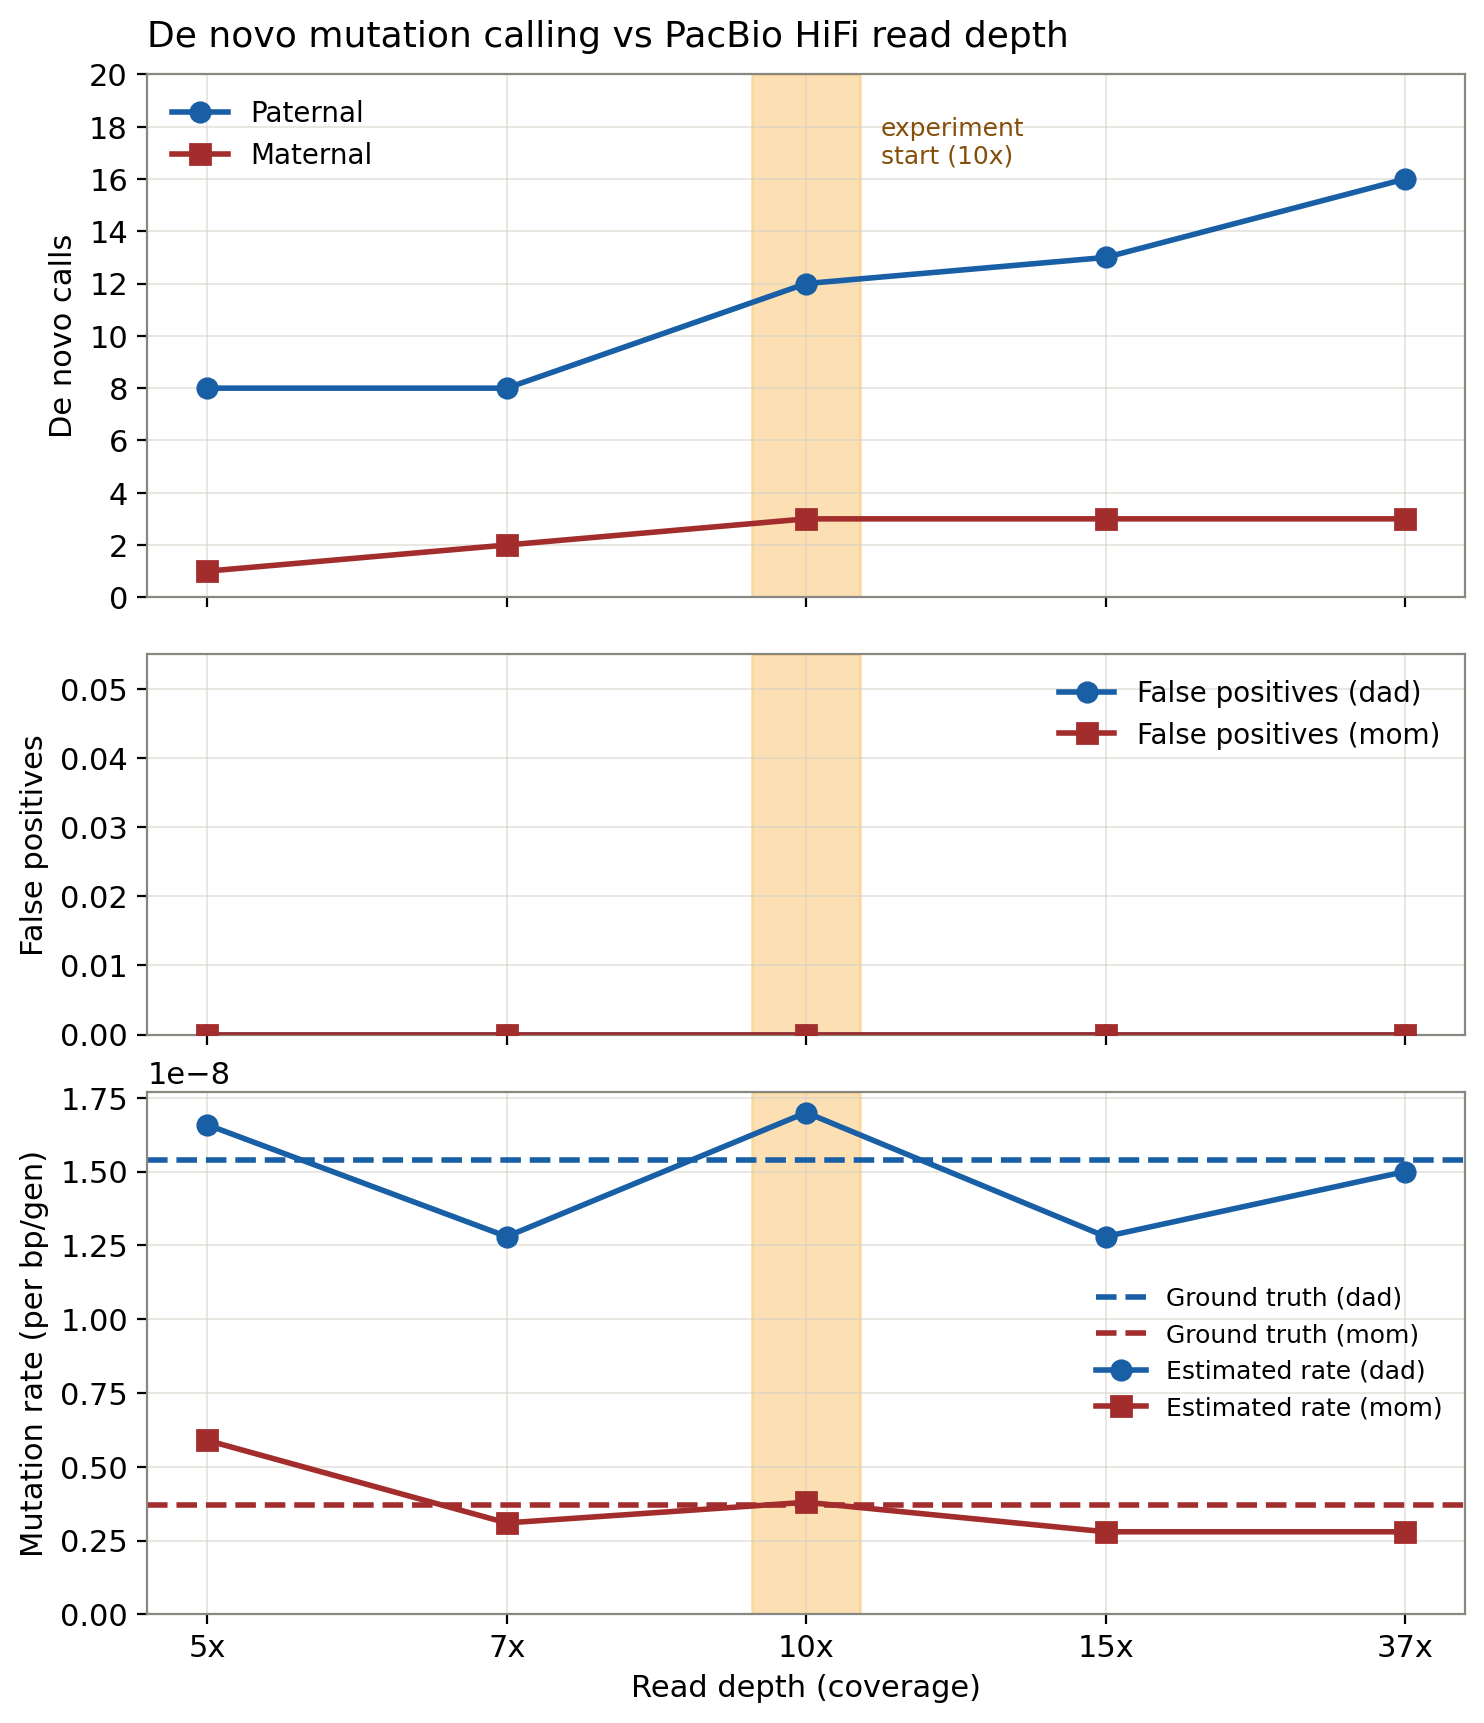
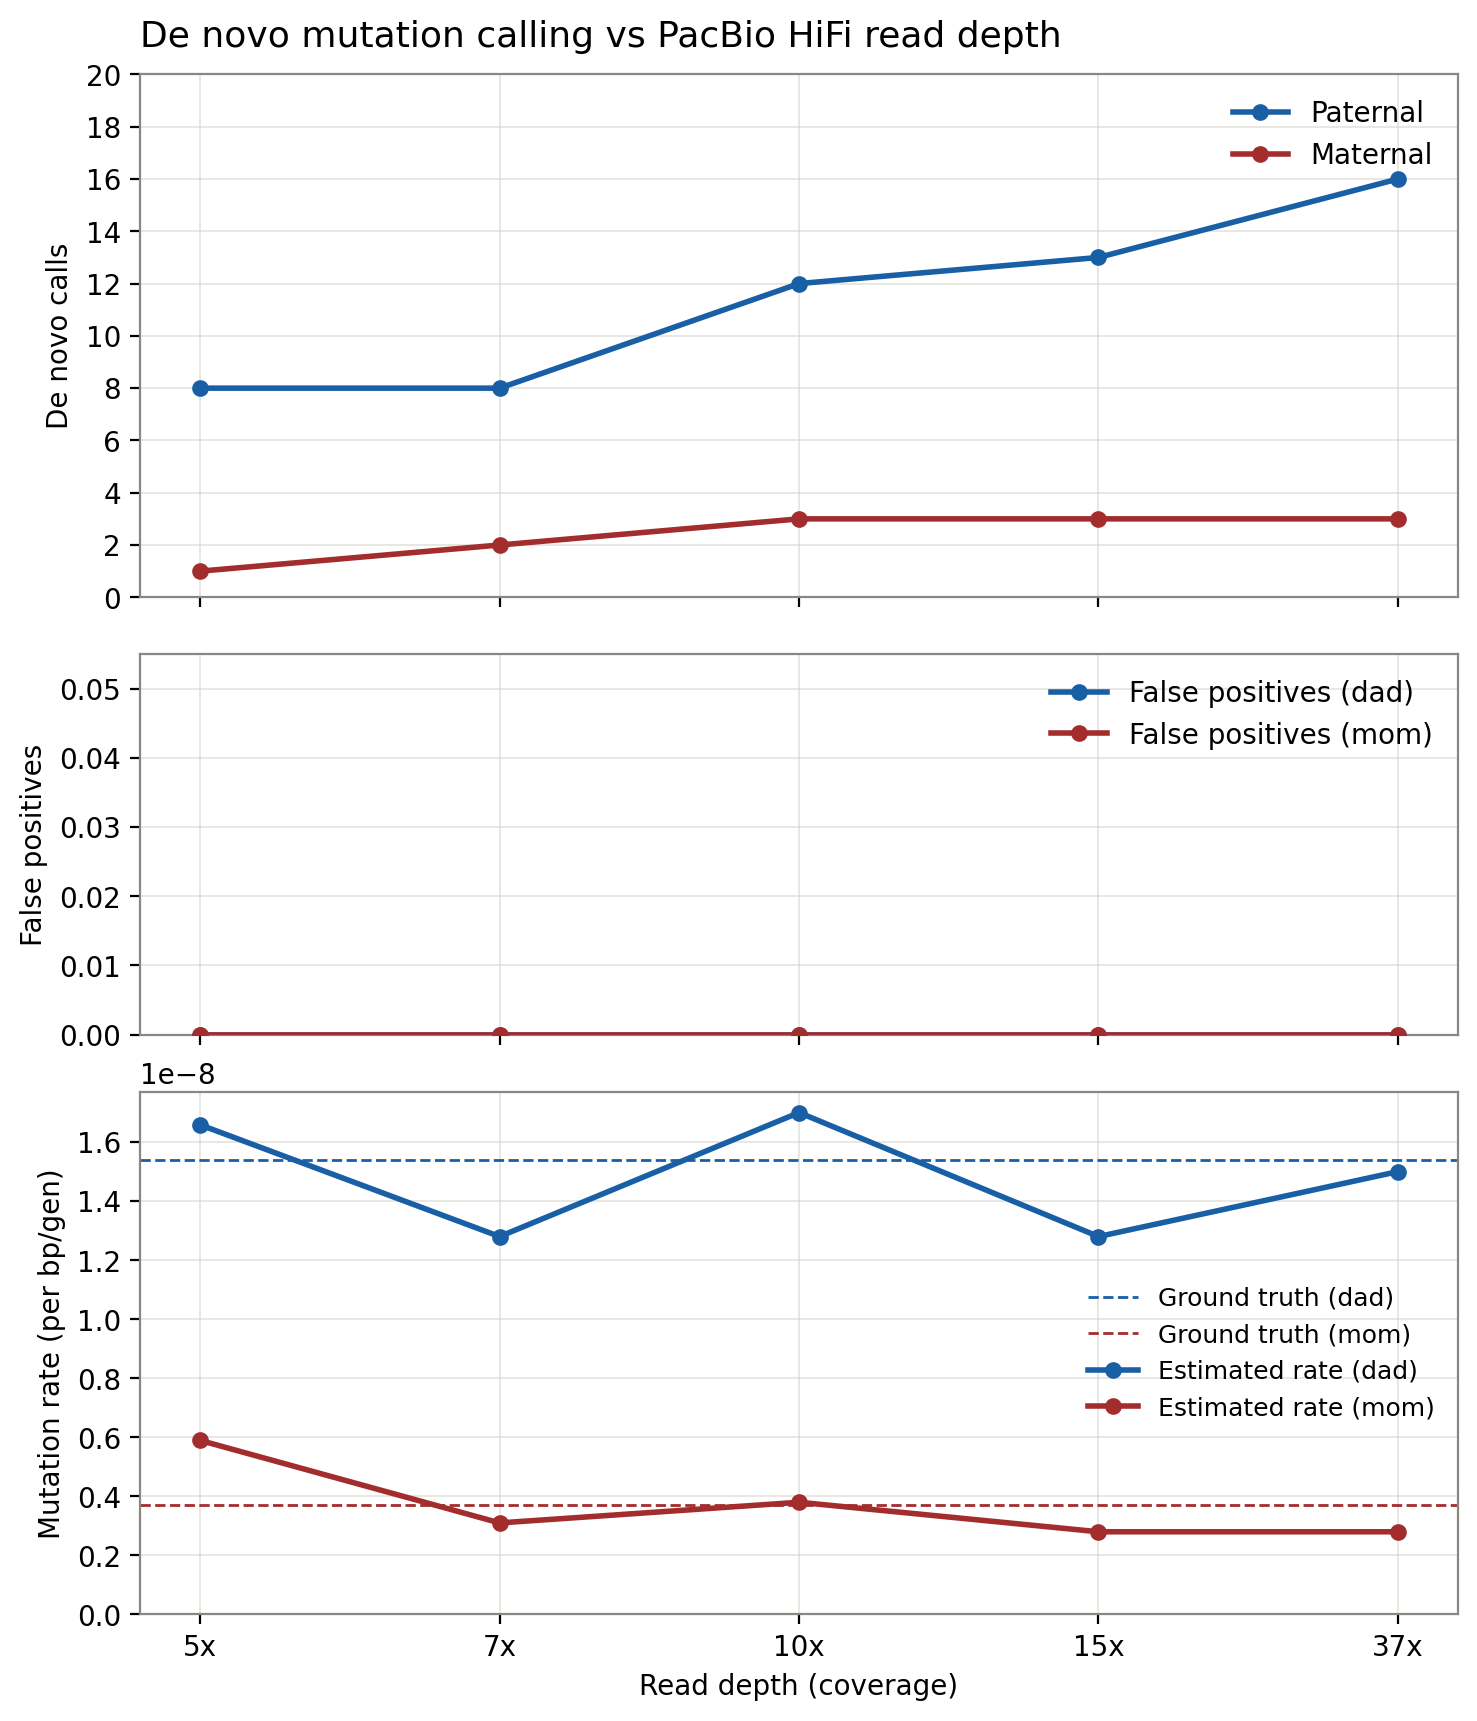
add some edits to the download file

diff --git a/src/dnm_vs_depth.py b/src/dnm_vs_depth.py
@@ -18,9 +18,9 @@ import numpy as np
 import matplotlib.pyplot as plt
 from scipy.stats import chi2
 
+
+
 # ===========================================================================
-# DATA  -- fill these in.  All arrays must line up with DEPTHS, same length.
-#          Use np.nan for any (depth, parent) you haven't run yet.
 # ===========================================================================
 
 DEPTHS = np.array([5, 7, 10, 15, 37])              # x-axis (coverage)
@@ -41,8 +41,7 @@ RATE_EST_MOM = np.array([5.894931e-09, 0.31e-8, 0.38e-8, 0.28e-8, 0.28e-08])
 
 
 # Callable / accessible genome size per depth, PER PARENT (drives Poisson band).
-# (From your pipeline's "Callable genome size" line for each parent run.)
-# >>> PLACEHOLDER NUMBERS -- replace with your real per-parent values <<<
+
 # CALLABLE_DAD = np.array([1.50e8, 2.00e8, 2.75e8, 3.20e8, 4.00e8])
 # CALLABLE_MOM = np.array([1.40e8, 1.90e8, 2.60e8, np.nan, np.nan])
 
@@ -92,8 +91,9 @@ def rate_band(calls, callable_genome, conf=0.95):
 # Plot
 # ===========================================================================
 plt.rcParams.update({
-    "font.family": "DejaVu Sans",
-    "font.size": 11,
+    "font.family": 'sans-serif',
+    'font.sans-serif': ['Helvetica', 'Arial'],
+    "font.size": 10,
     "axes.edgecolor": "#888780",
     "axes.linewidth": 0.8,
     "axes.grid": True,
@@ -102,6 +102,9 @@ plt.rcParams.update({
     "grid.alpha": 0.6,
 })
 
+
+# plt.rcParams['font.family'] = 'sans-serif'
+# plt.rcParams['font.sans-serif'] = ['Helvetica', 'Arial', 'DejaVu Sans']
 fig, (ax1, ax2, ax3) = plt.subplots(
     3, 1, figsize=(8.5, 10), sharex=True,
     gridspec_kw={"height_ratios": [1.1, 0.8, 1.1], "hspace": 0.12},
@@ -118,42 +121,42 @@ def start_band(ax):
     ax.axvspan(xc - 0.18, xc + 0.18, color=C_START, alpha=0.55, zorder=0)
 
 # ---- Panel 1: calls ----
-start_band(ax1)
-ax1.plot(xpos[m_dad], CALLS_DAD[m_dad], "-o", color=C_DAD, lw=2, ms=7,
+# start_band(ax1)
+ax1.plot(xpos[m_dad], CALLS_DAD[m_dad], "-o", color=C_DAD, lw=2, ms=5,
          label="Paternal", zorder=3)
-ax1.plot(xpos[m_mom], CALLS_MOM[m_mom], "-s", color=C_MOM, lw=2, ms=7,
+ax1.plot(xpos[m_mom], CALLS_MOM[m_mom], "-o", color=C_MOM, lw=2, ms=5,
          label="Maternal", zorder=3)
 ax1.set_yticks(np.arange(0, max(CALLS_DAD) + 5, 2))
 ax1.set_ylabel("De novo calls")
-ax1.legend(frameon=False, loc="upper left", fontsize=10)
+ax1.legend(frameon=False, loc="upper right", fontsize=10)
 ax1.set_title(f"De novo mutation calling vs {DATA_TYPE} read depth",
               fontsize=13, fontweight="medium", loc="left", pad=10)
 
 # ---- Panel 2: false positives ----
-start_band(ax2)
+# start_band(ax2)
 mfp_dad = ~np.isnan(FALSE_POS_DAD)
 mfp_mom = ~np.isnan(FALSE_POS_MOM)
-ax2.plot(xpos[mfp_dad], FALSE_POS_DAD[mfp_dad], "-o", color=C_DAD, lw=2, ms=7,
+ax2.plot(xpos[mfp_dad], FALSE_POS_DAD[mfp_dad], "-o", color=C_DAD, lw=2, ms=5,
          label="False positives (dad)", zorder=3)
-ax2.plot(xpos[mfp_mom], FALSE_POS_MOM[mfp_mom], "-s", color=C_MOM, lw=2, ms=7,
+ax2.plot(xpos[mfp_mom], FALSE_POS_MOM[mfp_mom], "-o", color=C_MOM, lw=2, ms=5,
          label="False positives (mom)", zorder=3)
 ax2.set_ylabel("False positives")
 ax2.legend(frameon=False, loc="upper right", fontsize=10)
 ax2.set_ylim(bottom=0)
 
 # ---- Panel 3: rates, per parent, each with ground truth ----
-start_band(ax3)
+# start_band(ax3)
 
 # ground-truth lines, matching parent colors
-ax3.axhline(GROUND_TRUTH_RATE_DAD, color=C_DAD, lw=2, ls="--", zorder=2,
+ax3.axhline(GROUND_TRUTH_RATE_DAD, color=C_DAD, lw=1, ls="--", zorder=2,
             label="Ground truth (dad)")
-ax3.axhline(GROUND_TRUTH_RATE_MOM, color=C_MOM, lw=2, ls="--", zorder=2,
+ax3.axhline(GROUND_TRUTH_RATE_MOM, color=C_MOM, lw=1, ls="--", zorder=2,
             label="Ground truth (mom)")
 
 # estimated rate lines
-ax3.plot(xpos[mr_dad], RATE_EST_DAD[mr_dad], "-o", color=C_DAD, lw=2, ms=7,
+ax3.plot(xpos[mr_dad], RATE_EST_DAD[mr_dad], "-o", color=C_DAD, lw=2, ms=5,
          zorder=3, label="Estimated rate (dad)")
-ax3.plot(xpos[mr_mom], RATE_EST_MOM[mr_mom], "-s", color=C_MOM, lw=2, ms=7,
+ax3.plot(xpos[mr_mom], RATE_EST_MOM[mr_mom], "-o", color=C_MOM, lw=2, ms=5,
          zorder=3, label="Estimated rate (mom)")
 
 ax3.set_ylabel("Mutation rate (per bp/gen)")
@@ -166,9 +169,9 @@ ax3.set_xticklabels([f"{int(d)}x" for d in DEPTHS])
 ax3.set_xlabel("Read depth (coverage)")
 
 xc = np.interp(START_DEPTH, DEPTHS, xpos)
-ax1.annotate("experiment\nstart (10x)", xy=(xc, ax1.get_ylim()[1]),
-             xytext=(xc + 0.25, ax1.get_ylim()[1] * 0.92),
-             fontsize=9, color="#854F0B", ha="left", va="top")
+# ax1.annotate("experiment\nstart (10x)", xy=(xc, ax1.get_ylim()[1]),
+#              xytext=(xc + 0.25, ax1.get_ylim()[1] * 0.92),
+#              fontsize=9, color="#854F0B", ha="left", va="top")
 
 # for ax in (ax1, ax2, ax3):
 #     ax.margins(x=0.04)
